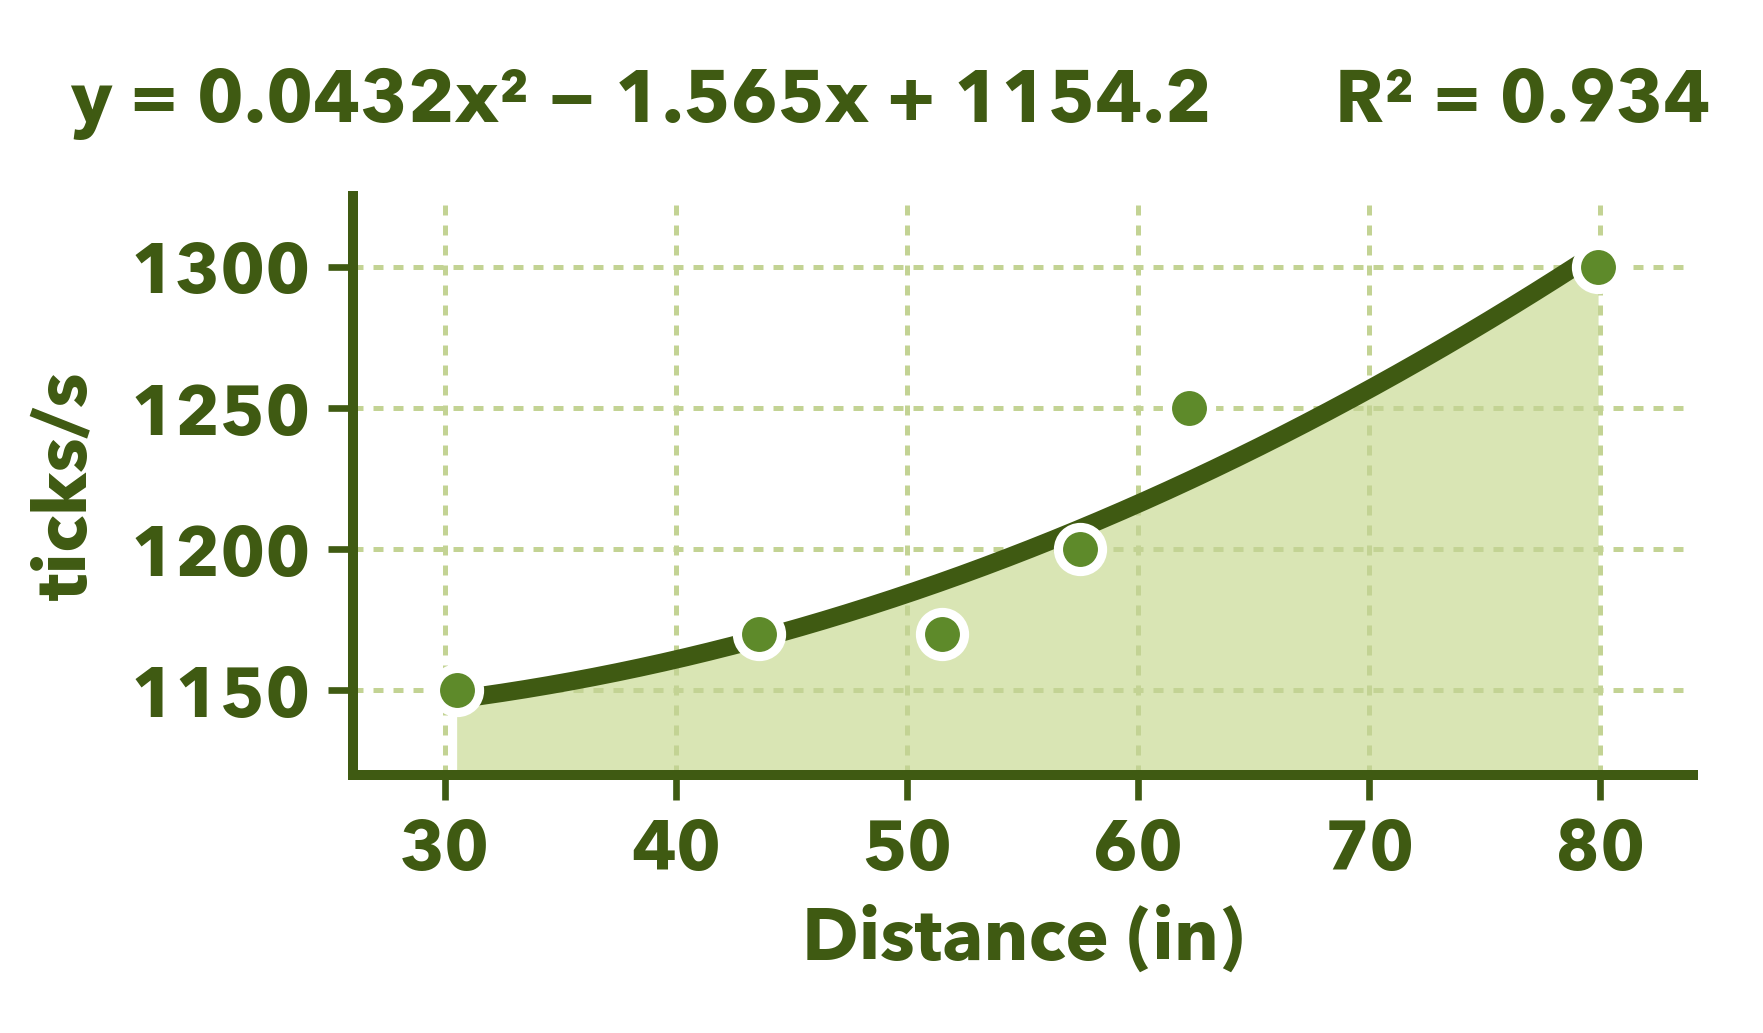
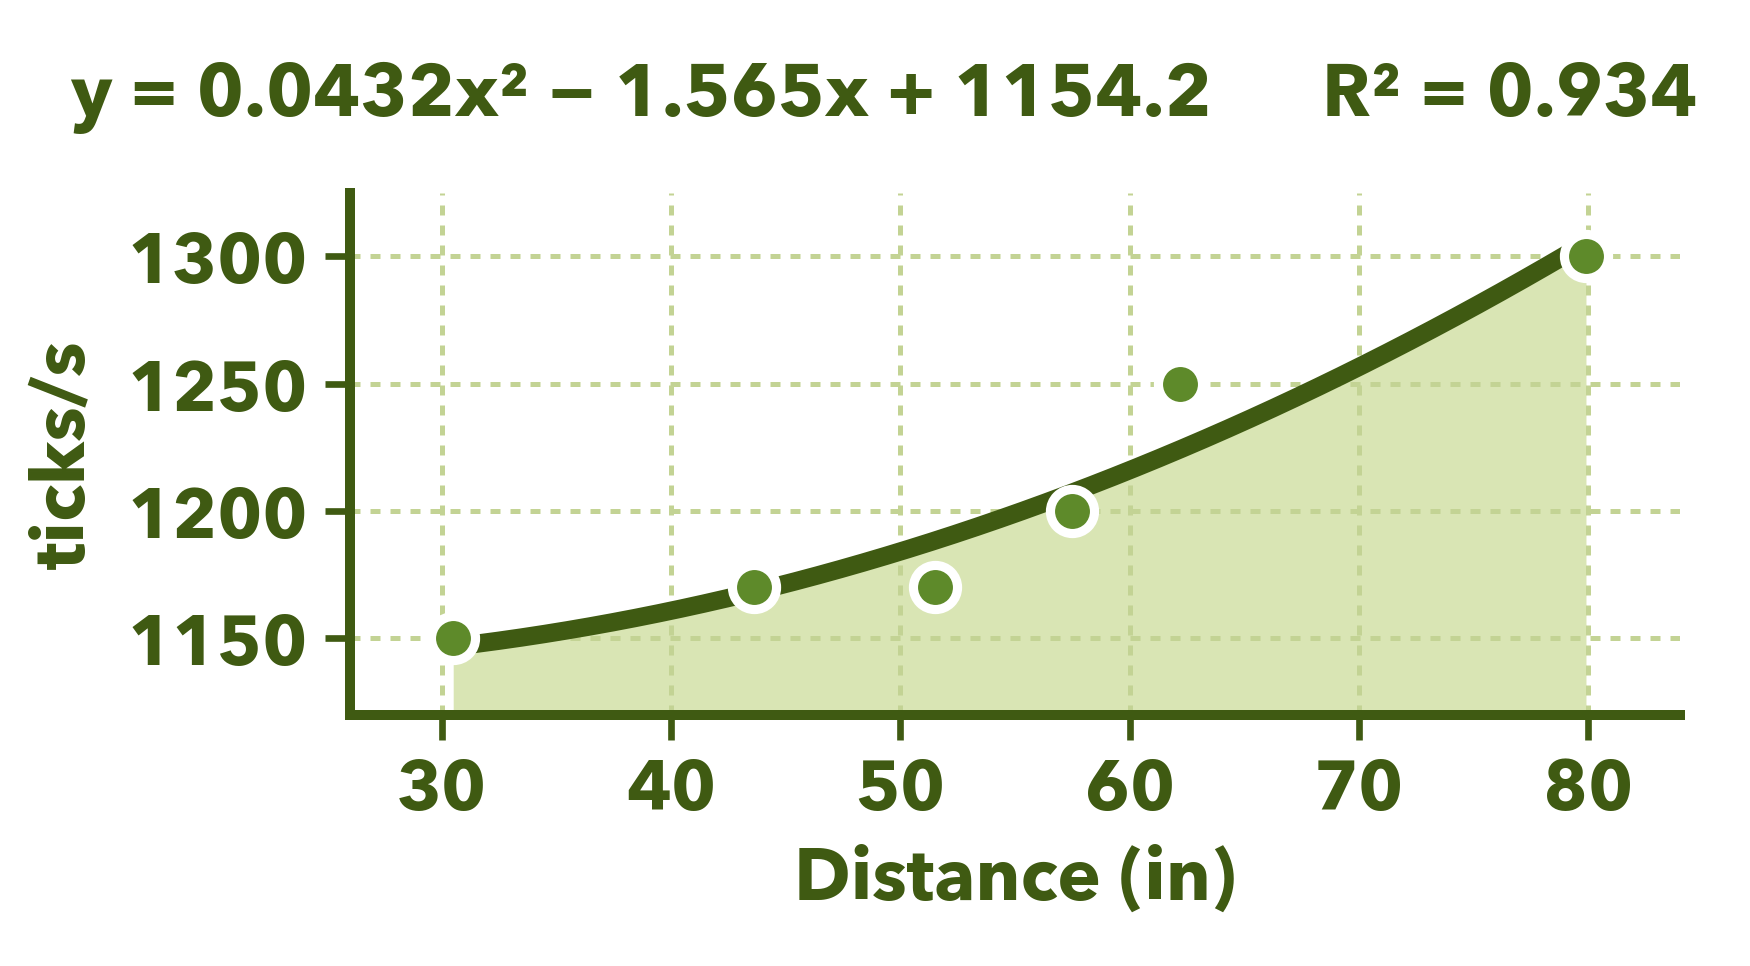
Portfolio launcher chart: resize to 105 x 58 pt so the frame clears the panel subtitle (tool)
Same data and fit: POLLEN_COEFFS over POLLEN_RANGE, R^2 = 0.934 on the six trials.

diff --git a/tools/portfolio/launcher/speed_vs_distance.py b/tools/portfolio/launcher/speed_vs_distance.py
@@ -4,7 +4,7 @@ Points: the six logged POLLEN trials. Curve: the SHIPPED fit, ShootingRegression
 (c0 + c1 d + c2 d^2, d in inches, motor encoder ticks/s), drawn over POLLEN_RANGE. R^2 is computed
 here from those coefficients on those six points - it is not copied from anywhere.
 
-Sized for the slide slot (105.8 x 62 pt); rendered with a transparent background.
+Sized for the slide slot (105 x 58 pt); rendered with a transparent background.
   python3 tools/portfolio/launcher/speed_vs_distance.py docs/portfolio/launcher_speed_vs_distance.png
 """
 import sys
@@ -31,9 +31,9 @@ for name in ("Avenir Next", "Helvetica Neue"):
         plt.rcParams["font.family"] = name
         break
 
-W, H = 105.8 / 72, 62.0 / 72
+W, H = 105.0 / 72, 58.0 / 72
 fig = plt.figure(figsize=(W, H), dpi=1200)
-ax = fig.add_axes([0.20, 0.25, 0.76, 0.56])
+ax = fig.add_axes([0.20, 0.26, 0.76, 0.54])
 ax.set_facecolor(PLOT)
 d = np.linspace(RANGE[0], RANGE[1], 200)          # the code clamps outside RANGE
 ax.fill_between(d, 1120, f(d), color=FILL, lw=0, zorder=1)
